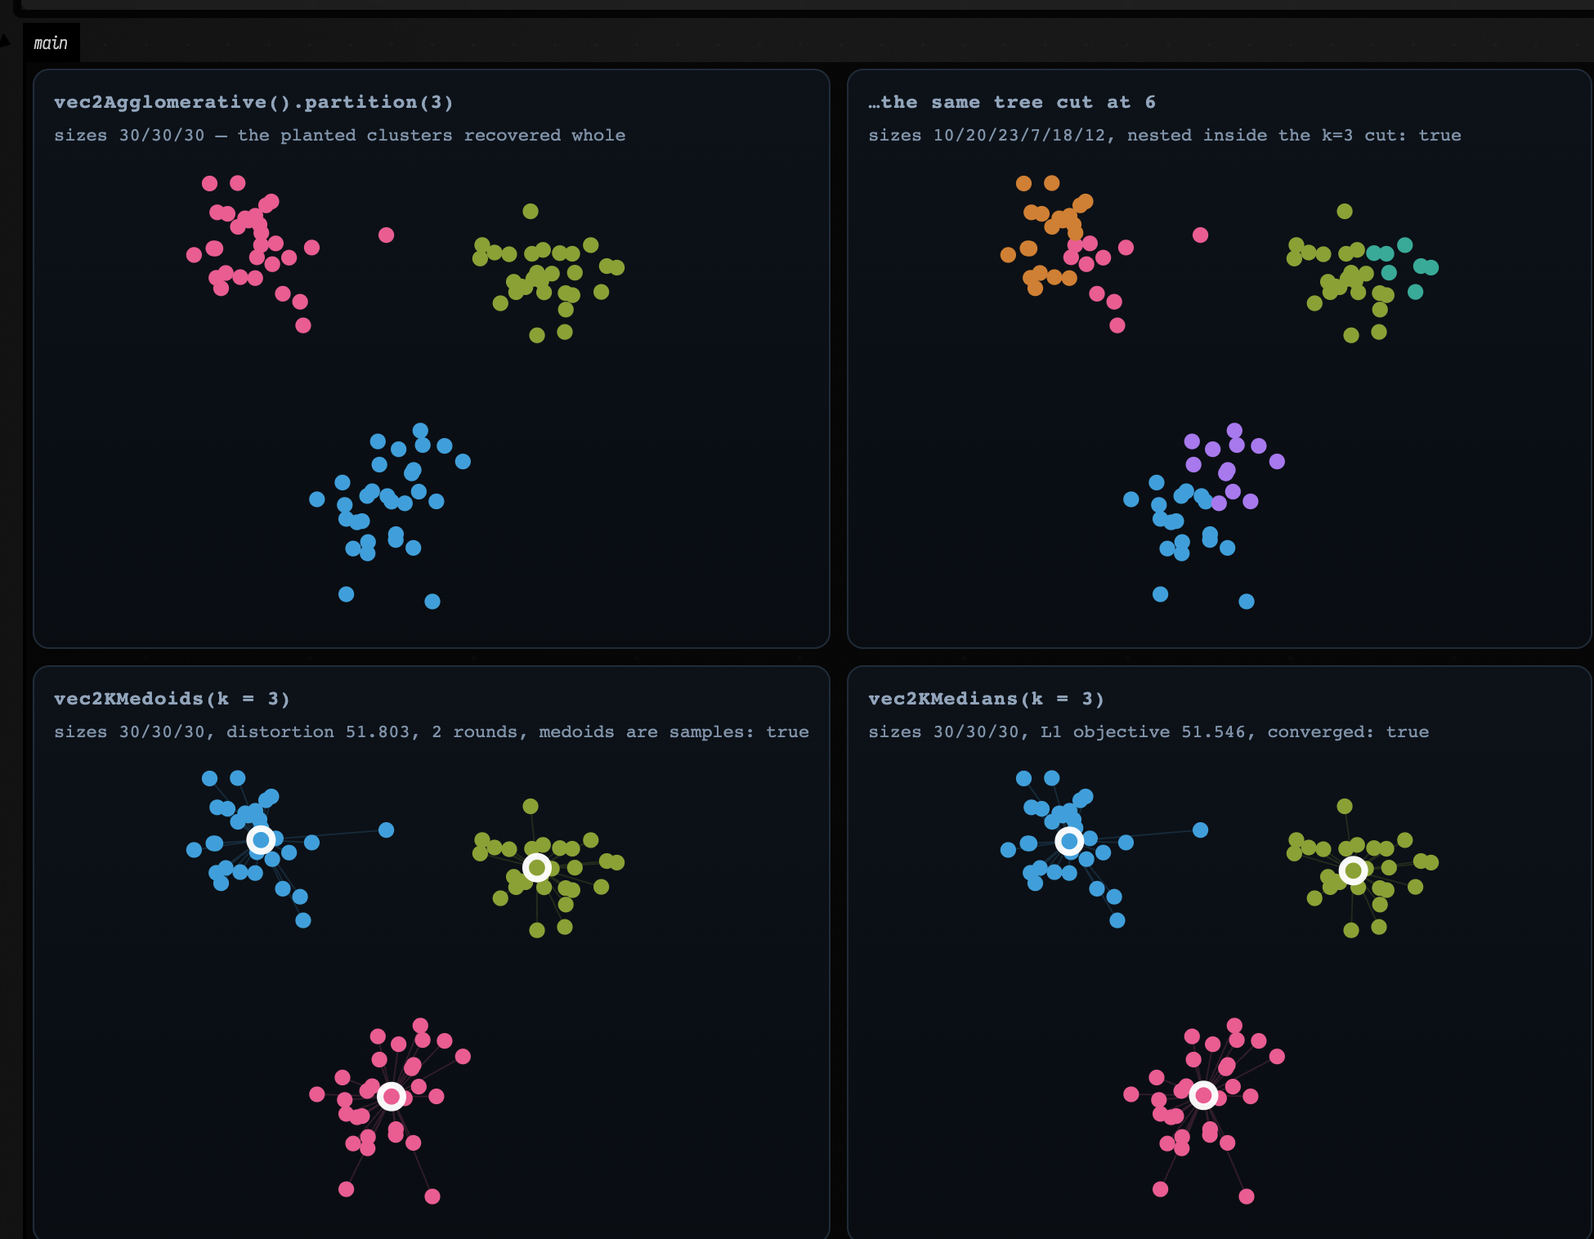
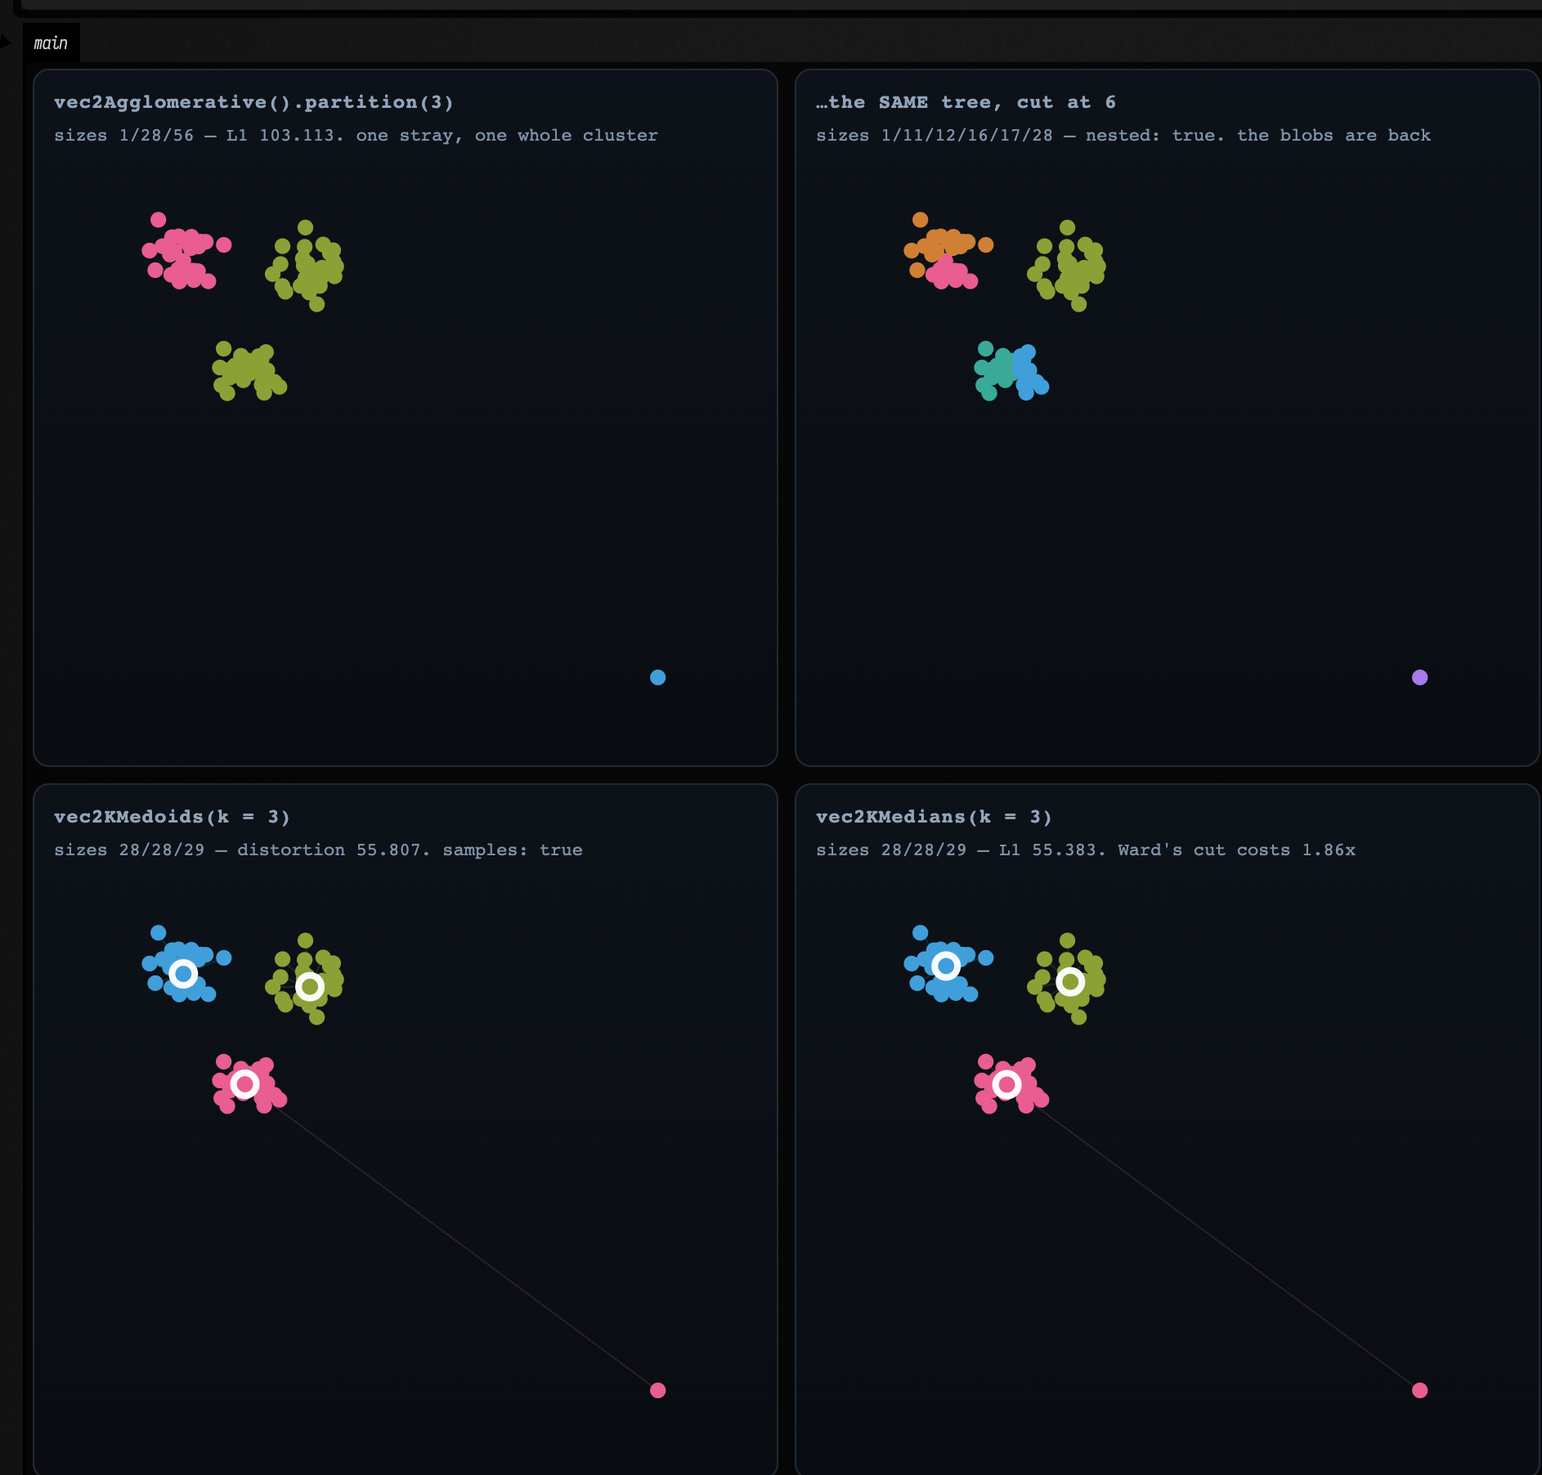
docs(spatial): a clustering example that can actually tell the strategies apart
The old figure planted three well-separated Gaussian blobs, 30/30/30, and every
strategy recovered them exactly. Ward's cut scored 51.546 on the L1 objective and
k-medians scored 51.546 — identical to four significant figures — so the section
compared four things and demonstrated no difference between any of them. It even
said so two paragraphs later, about the *next* figure.

The new cloud has exactly one thing wrong with it: three tight blobs of 28, and a
single 85th point nine units out. That is enough, and each disagreement it
produces is the textbook reason you would pick that strategy:

| strategy | k=3 cut | L1 of that cut |
| --- | --- | --- |
| Ward | **1 / 28 / 56** | 103.113 |
| k-medoids | 28 / 28 / 29 | 55.807 (distortion) |
| k-medians | 28 / 28 / 29 | **55.383** |

Ward spends a whole cluster on one point and pays by merging two genuine blobs,
because it minimises a sum of SQUARES: merging two 28-blobs 2.408 apart costs
14 * 5.80 = 81.2, absorbing the stray 9.72 away costs 28/29 * 94.5 = 91.2, and
91.2 > 81.2. k-medoids and k-medians minimise sums of distances, where that point
costs 9.72 rather than 94.5, so both shrug it off and keep every blob whole. They
are the right answer here and the page now says so.

The arithmetic predicts a threshold at d = sqrt(81.2/0.966) = 9.17, and the
measured flip brackets it: at d = 8.32 Ward absorbs the stray, at d = 9.72 it does
not. `theWardFlipHappensAtThePredictedStrayDistance` asserts both sides.
[…]

diff --git a/src/jvmTest/kotlin/afield/stdlib/SpatialGeometryTest.kt b/src/jvmTest/kotlin/afield/stdlib/SpatialGeometryTest.kt
@@ -711,6 +711,142 @@ class SpatialGeometryTest {
         )
     }
 
+    /**
+     * The cloud the `spatial_geometry_examples` clustering figure draws: three tight blobs of 28 with
+     * centres 2.408 apart, plus one stray at [strayDistance]-ish from the nearest of them. The stray
+     * direction is fixed; only how far out it sits varies.
+     */
+    private fun blobsWithOneStray(stray: Vec2): List<Vec2> {
+        val rng = java.util.Random(7)
+        val centres = listOf(vec(0.0, 0.0), vec(2.4, 0.2), vec(1.2, 2.2))
+        val points = ArrayList<Vec2>()
+        centres.forEach { c ->
+            repeat(28) { points += vec(c.x + rng.nextGaussian() * 0.30, c.y + rng.nextGaussian() * 0.30) }
+        }
+        points += stray
+        return points
+    }
+
+    /** The L1 objective — sum of |dx| + |dy| to each cluster's own median — of any partition at all. */
+    private fun l1ObjectiveOf(points: List<Vec2>, labels: IntArray, k: Int): Double =
+        (0 until k).sumOf { c ->
+            val members = points.indices.filter { labels[it] == c }
+            if (members.isEmpty()) return@sumOf 0.0
+            val mx = members.map { points[it].x }.sorted()[members.size / 2]
+            val my = members.map { points[it].y }.sorted()[members.size / 2]
+            members.sumOf { (abs(points[it].x - mx) + abs(points[it].y - my)).toDouble() }
+        }
+
+    private fun sortedSizes(layer: ClusterLayer): List<Int> =
+        (0 until layer.clusterCount).map { layer.indices(it).size }.sorted()
+
+    @Test
+    fun oneStrayPointBuysAWardClusterButNotAMedoidOne() {
+        // The discriminating claim the clustering figure is built on. Ward minimises a sum of
+        // SQUARED deviations, so one far point can be worth more than two real clusters; k-medoids
+        // and k-medians minimise sums of distances, so it cannot be.
+        val stray = vec(9.0, 8.0)
+        val points = blobsWithOneStray(stray)
+        assertEquals(85, points.size)
+
+        val tree = vec2Agglomerative(points)
+        val cut3 = tree.partition(3)
+        val medoids = vec2KMedoids(points, 3, KMedoidsOptions(randomSeed = 11L))
+        val medians = vec2KMedians(points, 3, KMediansOptions(randomSeed = 11L))
+
+        // Ward gives the single stray a cluster of its own, and pays by merging two 28-point blobs.
+        assertEquals(listOf(1, 28, 56), sortedSizes(cut3), "Ward's k=3 cut of the stray cloud")
+        // The robust pair absorb it and keep every planted blob whole.
+        assertEquals(listOf(28, 28, 29), medoids.clusterSizes.sorted(), "k-medoids' k=3 cut")
+        assertEquals(listOf(28, 28, 29), medians.clusterSizes.sorted(), "k-medians' k=3 cut")
+
+        // Scored on one ruler, Ward's answer is far worse — and *how much* worse is the number the
+        // page prints. This is the assertion that fails on well-separated blobs (see the control arm
+        // in `wellSeparatedBlobsCannotDiscriminateBetweenTheStrategies`), where the ratio is 1.000.
+        val wardCost = l1ObjectiveOf(points, cut3.labels, 3)
+        val ratio = wardCost / medians.objective
+        assertTrue(
+            ratio > 1.8,
+            "Ward's cut should cost far more on the L1 ruler; got $wardCost vs ${medians.objective} = ${"%.3f".format(ratio)}x",
+        )
+
+        // The backbone invariants still hold on this harder data.
+        medoids.medoids.forEach { m ->
+            assertTrue(points.any { it.x == m.x && it.y == m.y }, "medoid $m is not an input sample")
+        }
+        assertTrue(
+            medians.objective < medoids.distortion,
+            "k-medians ${medians.objective} should beat k-medoids ${medoids.distortion} on the L1 objective",
+        )
+
+        // Cutting the SAME tree deeper undoes the damage: the stray is alone, and every planted blob
+        // is a union of k=6 clusters even though the k=3 cut ran across two of them.
+        val cut6 = tree.partition(6)
+        assertEquals(listOf(1, 11, 12, 16, 17, 28), sortedSizes(cut6), "the k=6 cut of the same tree")
+        for (fine in 0 until cut6.clusterCount) {
+            assertEquals(
+                1, cut6.indices(fine).map { cut3.labels[it] }.toSet().size,
+                "k=6 cluster $fine straddles two k=3 clusters",
+            )
+        }
+        val plantedOf = { i: Int -> if (i < 84) i / 28 else -1 }
+        for (fine in 0 until cut6.clusterCount) {
+            val planted = cut6.indices(fine).map(plantedOf).toSet()
+            assertEquals(1, planted.size, "k=6 cluster $fine mixes planted blobs $planted")
+        }
+    }
+
+    @Test
+    fun theWardFlipHappensAtThePredictedStrayDistance() {
+        // Ward should abandon the stray exactly when absorbing it costs more than merging two blobs:
+        // 28/29 · d² > 28·28/56 · 2.408², i.e. d > sqrt(81.2 / 0.966) = 9.17. Bracket that.
+        val nearest = vec(1.2, 2.2)   // the blob centre the stray is closest to
+        fun distanceOf(stray: Vec2) =
+            hypot((stray.x - nearest.x).toDouble(), (stray.y - nearest.y).toDouble())
+        fun wardIsolatesTheStray(stray: Vec2): Boolean {
+            val points = blobsWithOneStray(stray)
+            return sortedSizes(vec2Agglomerative(points).partition(3)).first() == 1
+        }
+
+        val inside = vec(8.0, 7.0)
+        val outside = vec(9.0, 8.0)
+        assertTrue(distanceOf(inside) < 9.17, "the near stray should be inside the predicted threshold")
+        assertTrue(distanceOf(outside) > 9.17, "the far stray should be outside it")
+        assertTrue(!wardIsolatesTheStray(inside), "at d=${distanceOf(inside)} Ward should absorb the stray")
+        assertTrue(wardIsolatesTheStray(outside), "at d=${distanceOf(outside)} Ward should isolate the stray")
+    }
+
+    @Test
+    fun wellSeparatedBlobsCannotDiscriminateBetweenTheStrategies() {
+        // The control arm, and the reason the clustering figure was rebuilt. On the well-separated
+        // 30/30/30 cloud the figure used to draw, every assertion in
+        // `oneStrayPointBuysAWardClusterButNotAMedoidOne` is either trivially true or false: the
+        // three strategies return the same partition and score within 0.5% of each other, so the
+        // figure cannot demonstrate any difference between them.
+        val (points, _) = plantedClusters()
+        val cut3 = vec2Agglomerative(points).partition(3)
+        val medoids = vec2KMedoids(points, 3, KMedoidsOptions(randomSeed = 11L))
+        val medians = vec2KMedians(points, 3, KMediansOptions(randomSeed = 11L))
+
+        assertEquals(listOf(30, 30, 30), sortedSizes(cut3))
+        assertEquals(listOf(30, 30, 30), medoids.clusterSizes.sorted())
+        assertEquals(listOf(30, 30, 30), medians.clusterSizes.sorted())
+
+        // No singleton anywhere, so `sizes(cut3).first() == 1` is false…
+        assertEquals(30, sortedSizes(cut3).first(), "no strategy isolates anything on this data")
+        // …and the L1 ratio that reaches 1.86 on the stray cloud is exactly 1 here, because Ward and
+        // k-medians found the very same partition.
+        val ratio = l1ObjectiveOf(points, cut3.labels, 3) / medians.objective
+        assertEquals(
+            1.0, ratio, 1e-6,
+            "on well-separated blobs Ward's cut and k-medians' cut score identically, ratio $ratio",
+        )
+        assertTrue(
+            abs(medoids.distortion - medians.objective) / medians.objective < 0.01,
+            "the two objectives differ by under 1% here: ${medoids.distortion} vs ${medians.objective}",
+        )
+    }
+
     @Test
     fun agglomerativeCutsAreNestedAndCanonicallyLabelled() {
         val (points, _) = plantedClusters(seed = 12L)

diff --git a/public/docs/spatial_geometry_examples.md b/public/docs/spatial_geometry_examples.md
@@ -659,61 +659,114 @@ Each of `Float`, `Vec2`, `Vec3` and `Vec4` has all three (`floatKMedoids`, `vec3
 and every result converts to a `ClusterLayer` — a name plus one integer label per sample — which is
 the currency the visualisers take.
 
-```diffstatic_runner {data-lang=kotlin screenshot="assets/spatial_geometry_examples/clustering.png" wait="3.0" capture="box" open-outputs="true" w="1040" h="980" padding="14"}
-:::static
-// Three planted Gaussian blobs, 30 points each, so the right answer is known: [30, 30, 30].
-val rng = java.util.Random(3)
-val centres = listOf(vec(0.0, 0.0), vec(3.0, 0.2), vec(1.4, 2.6))
-val points = centres.flatMap { c ->
-    List(30) { vec(c.x + rng.nextGaussian() * 0.35, c.y + rng.nextGaussian() * 0.35) }
-}
+A comparison is only worth drawing on data that can tell the things compared *apart*. Three
+well-separated Gaussian blobs cannot: every strategy below recovers them exactly, the numbers agree to
+four significant figures, and the figure teaches nothing except that none of the code is broken. So
+here is a cloud with exactly **one** thing wrong with it — three tight blobs of 28 points, and a
+single 85th point sitting nine units away from all of them. Nothing else is unusual. Watch what each
+strategy does with that one point.
 
-val tree = vec2Agglomerative(points)                                  // Ward linkage by default
+```diffstatic_runner {data-lang=kotlin screenshot="assets/spatial_geometry_examples/clustering.png" wait="3.0" capture="box" open-outputs="true" w="1040" h="1080" padding="14"}
+:::fold plant three tight blobs of 28 — and one lone stray nine units out
+// Three tight Gaussian blobs, 28 points each, centres 2.4 apart. Then one stray, far from all three.
+// The only interesting thing about this cloud is that 85th point.
+val rng = java.util.Random(7)
+val blobCentres = listOf(vec(0.0, 0.0), vec(2.4, 0.2), vec(1.2, 2.2))
+val blobs = blobCentres.flatMap { c ->
+    List(28) { vec(c.x + rng.nextGaussian() * 0.30, c.y + rng.nextGaussian() * 0.30) }
+}
+val stray = vec(9.0, 8.0)
+// NOT `blobs + stray`: in Field, `List<Vec2> + Vec2` is `FLineGeometry`'s elementwise operator and
+// TRANSLATES all 84 points by (9, 8) rather than appending an 85th. `+ listOf(stray)` is worse still
+// — that overload zips two equal-length lists. Append explicitly.
+val points = buildList { addAll(blobs); add(stray) }
+val window = Rect(-1.4, -1.4, 11.2, 10.2)   // shared by all four panels, so they are comparable
+:::endfold
+:::static
+// Four strategies, one question: partition these 85 points into three groups.
+val tree = vec2Agglomerative(points)     // Ward: minimises within-cluster sum of SQUARES
 val cut3 = tree.partition(3)
 val cut6 = tree.partition(6)
+val medoids = vec2KMedoids(points, 3, KMedoidsOptions(randomSeed = 11L))  // centres ARE samples
+val medians = vec2KMedians(points, 3, KMediansOptions(randomSeed = 11L))  // L1 Lloyd
 
-val medoids = vec2KMedoids(points, 3, KMedoidsOptions(randomSeed = 11L))
-val medians = vec2KMedians(points, 3, KMediansOptions(randomSeed = 11L))
+// One ruler for all of them: score ANY partition by the objective k-medians optimises — the sum of
+// |dx| + |dy| from each point to its own cluster's median. That makes the four answers comparable.
+fun l1Of(labels: IntArray, k: Int) = (0 until k).sumOf { c ->
+    val mem = points.indices.filter { labels[it] == c }
+    val mx = mem.map { points[it].x }.sorted()[mem.size / 2]
+    val my = mem.map { points[it].y }.sorted()[mem.size / 2]
+    mem.sumOf { (abs(points[it].x - mx) + abs(points[it].y - my)).toDouble() }
+}
+fun sizes(layer: ClusterLayer) = (0 until layer.clusterCount).map { layer.indices(it).size }.sorted()
 
-// A medoid is an actual input sample; check it rather than trust it.
+// THE DISCRIMINATORS. Every one of these is boring on well-separated blobs and decisive here.
+val wardSpendsAClusterOnTheStray = sizes(cut3).first() == 1        // [1, 28, 56]
+val medoidsKeepEveryBlobWhole = medoids.clusterSizes.min() >= 28   // [28, 28, 29]
+val wardCostsThisMuchMore = l1Of(cut3.labels, 3) / medians.objective  // 1.86x, not 1.00x
+
+// …and the invariants that hold whatever the data, which is why they are the honest backbone.
 val medoidsAreSamples = medoids.medoids.all { m -> points.any { it.x == m.x && it.y == m.y } }
-// A finer cut of the merge tree refines a coarser one: every k=6 cluster lies inside one k=3 cluster.
 val nested = (0 until cut6.clusterCount).all { fine ->
     cut6.indices(fine).map { cut3.labels[it] }.toSet().size == 1
 }
+val mediansBeatMedoids = medians.objective < medoids.distortion
 :::fold draw the four partitions
-fun sizes(layer: ClusterLayer) =
-    (0 until layer.clusterCount).map { layer.indices(it).size }.joinToString("/")
-
+// Only the FIRST newline splits a panel label into title + caption; later ones render as spaces, and
+// the grid's max-content columns are sized by the longest caption. So: one short caption line each.
 showPlaneGrid(
-    "vec2Agglomerative().partition(3)\nsizes ${sizes(cut3)} — the planted clusters recovered whole" to
+    "vec2Agglomerative().partition(3)\nsizes ${sizes(cut3).joinToString("/")} — L1 %.3f. one stray, one whole cluster"
+        .format(l1Of(cut3.labels, 3)) to
         cut3.toFLines(points, drawSpokes = false, pointSize = 1.6),
-    "…the same tree cut at 6\nsizes ${sizes(cut6)}, nested inside the k=3 cut: $nested" to
-        cut6.toFLines(points, drawSpokes = false, pointSize = 1.6),
-    "vec2KMedoids(k = 3)\nsizes ${medoids.clusterSizes.joinToString("/")}, distortion %.3f, %d rounds, medoids are samples: %s"
-        .format(medoids.distortion, medoids.iterations, medoidsAreSamples) to
+    "…the SAME tree, cut at 6\nsizes ${sizes(cut6).joinToString("/")} — nested: $nested. the blobs are back"
+        to cut6.toFLines(points, drawSpokes = false, pointSize = 1.6),
+    "vec2KMedoids(k = 3)\nsizes ${medoids.clusterSizes.toList().sorted().joinToString("/")} — distortion %.3f. samples: %s"
+        .format(medoids.distortion, medoidsAreSamples) to
         medoids.asLayer().toFLines(points, centers = medoids.medoids, pointSize = 1.6),
-    "vec2KMedians(k = 3)\nsizes ${medians.clusterSizes.joinToString("/")}, L1 objective %.3f, converged: %s"
-        .format(medians.objective, medians.converged) to
+    "vec2KMedians(k = 3)\nsizes ${medians.clusterSizes.toList().sorted().joinToString("/")} — L1 %.3f. Ward's cut costs %.2fx"
+        .format(medians.objective, wardCostsThisMuchMore) to
         medians.asLayer().toFLines(points, centers = medians.centers, pointSize = 1.6),
     columns = 2,
     cellWidth = 430,
-    cellHeight = 280,
+    cellHeight = 352,
+    window = window,
 )
 :::endfold
 ```
 
-![Four panels of the same 90-point cloud: a Ward cut at k=3 recovering the three planted blobs, the same tree cut at 6, k-medoids with its three sample medoids marked, and k-medians with its three robust centres and spokes](assets/spatial_geometry_examples/clustering.png)
+![Four panels of the same 85-point cloud, all at one scale: the Ward cut at k=3 colouring the single far stray as a cluster of its own while two of the three tight blobs share a colour; the same tree cut at 6, where the stray is alone and the blobs are separate again; k-medoids, which absorbs the stray into its nearest blob and keeps all three whole; and k-medians doing the same with its three robust centres marked](assets/spatial_geometry_examples/clustering.png)
 
-All four find the planted structure — **30/30/30** three times over — which on well-separated blobs
-is the least a clustering algorithm can do, and is exactly why it makes a good figure: you can see
-whether the *colours* are right. The interesting numbers are the ones that distinguish the methods.
-The k=6 cut is **nested inside** the k=3 cut, which is the property that makes a hierarchy worth
-having: you can change your mind about *k* after the fact, for free, without re-running anything.
-K-medoids converged in **2 rounds** with a distortion of **51.803**, and every one of its three
-medoids is an actual input point. K-medians reaches a slightly lower L1 objective (**51.546**),
-because a median is free to sit *between* samples — which is the trade: a medoid you can point at,
-against a centre that fits marginally better.
+**The four strategies do not agree, and each disagreement is the reason you would pick that strategy.**
+
+**Ward spends a whole cluster on one point.** The k=3 cut is **1 / 28 / 56**: the stray alone, one blob
+intact, and *two genuine blobs merged into one*. That is not a bug, it is the objective. Agglomerative
+Ward merges whichever pair raises the within-cluster sum of squares least, and merging clusters of
+`n₁`, `n₂` whose centroids are `d` apart costs `n₁n₂/(n₁+n₂) · d²`. Merging two 28-point blobs 2.408
+apart costs `14 · 5.80 = 81.2`. Absorbing the stray into its nearest blob — 9.72 away — costs
+`28/29 · 94.5 = 91.2`. **91.2 > 81.2**, so the stray stays out and two real clusters pay for it. The
+whole mechanism is that one *squaring*: a point three times further away is nine times as expensive.
+
+That prediction is testable, and it holds: the threshold should sit at `d = √(81.2 / 0.966) = 9.17`,
+and moving the stray inward, the cut flips from `1 / 28 / 56` to `28 / 28 / 29` between
+**d = 8.32 and d = 9.72** — the two sampled distances that bracket 9.17.
+`SpatialGeometryTest.oneStrayPointBuysAWardClusterButNotAMedoidOne` asserts it.
+
+**k-medoids and k-medians both shrug the stray off, and they are the right answer here.** Both minimise
+a sum of *distances*, so that point costs 9.72 rather than 94.5, and absorbing it as one eccentric
+member of the nearest blob is obviously cheaper than tearing a real blob apart. Both return
+**28 / 28 / 29**, both recover all three planted blobs whole, and every medoid is still one of your own
+samples. Scored on one ruler — the L1 objective in the code above — Ward's cut costs **103.113** where
+k-medians reaches **55.383**: **1.86×** as much. On the well-separated blobs this figure used to show,
+those two numbers were **51.546 and 51.546** — identical to four significant figures, which is precisely
+why that version of the figure could not discriminate between anything.
+
+**The hierarchy is not thereby discredited — it is the only one of the four you can argue with after the
+fact.** Cut the *same tree* at 6 and you get **1 / 11 / 12 / 16 / 17 / 28**: the stray is a singleton,
+and the two blobs Ward merged at k=3 are separate again. Every planted blob is a union of k=6 clusters
+even though the k=3 cut cut across them. That cost nothing — no re-run, no re-seed, no new random
+number — because the finer cut is **nested** inside the coarser one. Which is the trade the family is
+really offering: k-medoids and k-medians give a better answer to the question you asked, and the
+hierarchy lets you discover you asked the wrong question.
 
 Two things worth knowing:
 
@@ -729,9 +782,10 @@ Two things worth knowing:
 
 ### The linkage is the model, not a tuning knob
 
-Well-separated blobs make every method look identical, which is why the figure above cannot tell you
-anything about the seven `AgglomerativeLinkage` values. Give it data where the answer is genuinely
-ambiguous and they stop agreeing — not by a little, but about *what a cluster is*.
+One stray point was enough to separate the three *algorithms*. It is not enough to separate the seven
+`AgglomerativeLinkage` values, because all seven agree that a lone far point is its own cluster. What
+they disagree about is deeper — not where to put an awkward point, but *what a cluster is at all* — and
+seeing that needs a shape rather than an outlier.
 
 Two long parallel bands with a narrow gap and a few stragglers in it is the standard discriminator,
 because it separates the two rival definitions of "cluster". One is *connectivity*: a set of things
